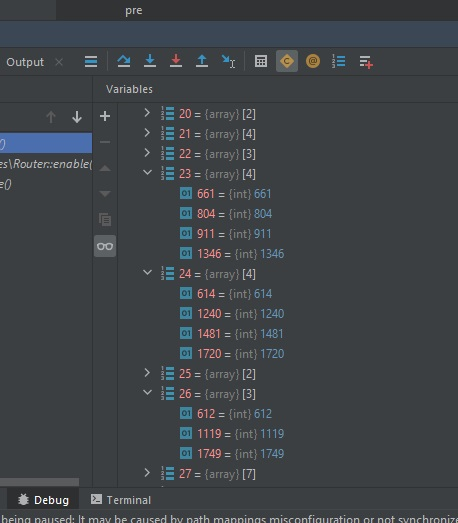
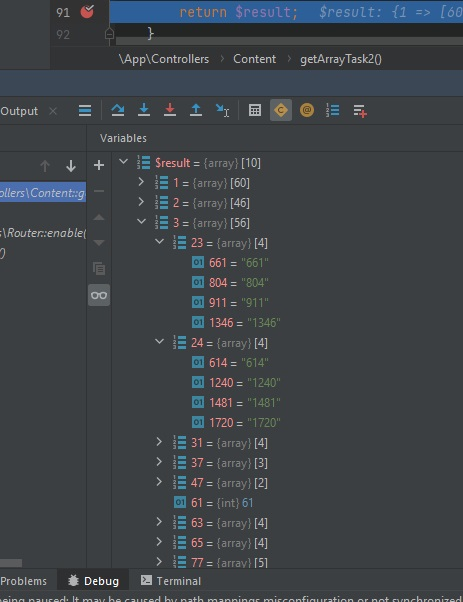
Task2: fix result array

diff --git a/app/Controllers/Content.php b/app/Controllers/Content.php
@@ -35,23 +35,55 @@ SQL;
         $pdo = $database::start();
 
         $sql = <<<'SQL'
-SELECT DISTINCT parent_id FROM `category` ORDER BY parent_id ASC;
-SQL;
-        $uniq = $pdo->query($sql);
-        $uniq = $uniq->fetchAll();
-
-        $sql = <<<'SQL'
 SELECT * FROM `category`;
 SQL;
         $arr = $pdo->query($sql);
         $arr = $arr->fetchAll();
 
-        $result = [];
+        $sql = <<<'SQL'
+SELECT DISTINCT parent_id FROM category ORDER by parent_id ASC ;
+SQL;
+        $numbers = $pdo->query($sql);
+        $numbers = $numbers->fetchAll();
 
-        foreach ($uniq as $item) {
-            foreach ($arr as $key => $value) {
-                if ($value['parent_id'] == $item['parent_id']) {
-                    $result[$item['parent_id']][$key + 1] = $key + 1;
+        $missingNum = [];
+        $num = 0;
+
+        foreach ($numbers as $number) {
+            if ( ($number['parent_id'] - $num) > 1) {
+                $missingNum[] = $num;
+                $num++;
+            }
+            if ( ($number['parent_id'] - $num) > 0) {
+                $missingNum[] = $num;
+                $num++;
+            }
+            $num++;
+        }
+
+
+        $newres = [];
+
+        foreach ($arr as $value) {
+            if ($value['parent_id'] == 0) {
+                $newres[$value['categories_id']][] = $value['categories_id'];
+            }
+        }
+        $result = [];
+        foreach ($newres as $key => $value) {
+            foreach ($arr as $item) {
+                if ($item['parent_id'] == $key) {
+                    foreach ($arr as $res) {
+                        if ($item['categories_id'] == $res['parent_id']) {
+                            $result[$item['parent_id']][$item['categories_id']][$res['categories_id']] = $res['categories_id'];
+                        } else {
+                            foreach ($missingNum as $num) {
+                                if ($item['categories_id'] == $num) {
+                                    $result[$item['parent_id']][$item['categories_id']] = $num;
+                                }
+                            }
+                        }
+                    }
                 }
             }
         }
@@ -60,5 +92,3 @@ SQL;
     }
 
 }
-
-

diff --git a/app/Sql_task2/task.php b/app/Sql_task2/task.php
@@ -15,28 +15,56 @@ $pdo = new \PDO(
     $config['pass'],
 );
 
-
-
-
-$sql = <<<'SQL'
-SELECT DISTINCT parent_id FROM `category` ORDER BY parent_id ASC;
-SQL;
-$uniq = $pdo->query($sql);
-$uniq = $uniq->fetchAll();
-
 $sql = <<<'SQL'
 SELECT * FROM `category`;
 SQL;
 $arr = $pdo->query($sql);
 $arr = $arr->fetchAll();
 
+$sql = <<<'SQL'
+SELECT DISTINCT parent_id FROM category ORDER by parent_id ASC ;
+SQL;
+$numbers = $pdo->query($sql);
+$numbers = $numbers->fetchAll();
+
+$missingNum = [];
+$num = 0;
+
+foreach ($numbers as $number) {
+    if ( ($number['parent_id'] - $num) > 1) {
+        $missingNum[] = $num;
+        $num++;
+    }
+    if ( ($number['parent_id'] - $num) > 0) {
+        $missingNum[] = $num;
+        $num++;
+    }
+    $num++;
+}
+
+
+$newres = [];
+
+foreach ($arr as $value) {
+    if ($value['parent_id'] == 0) {
+        $newres[$value['categories_id']][] = $value['categories_id'];
+    }
+}
 $result = [];
-
-
-foreach ($uniq as $item) {
-    foreach ($arr as $key => $value) {
-        if ($value['parent_id'] == $item['parent_id']) {
-            $result[$item['parent_id']][$key + 1] = $key + 1;
+foreach ($newres as $key => $value) {
+    foreach ($arr as $item) {
+        if ($item['parent_id'] == $key) {
+            foreach ($arr as $res) {
+                if ($item['categories_id'] == $res['parent_id']) {
+                    $result[$item['parent_id']][$item['categories_id']][$res['categories_id']] = $res['categories_id'];
+                } else {
+                    foreach ($missingNum as $num) {
+                        if ($item['categories_id'] == $num) {
+                            $result[$item['parent_id']][$item['categories_id']] = $num;
+                        }
+                    }
+                }
+            }
         }
     }
 }
